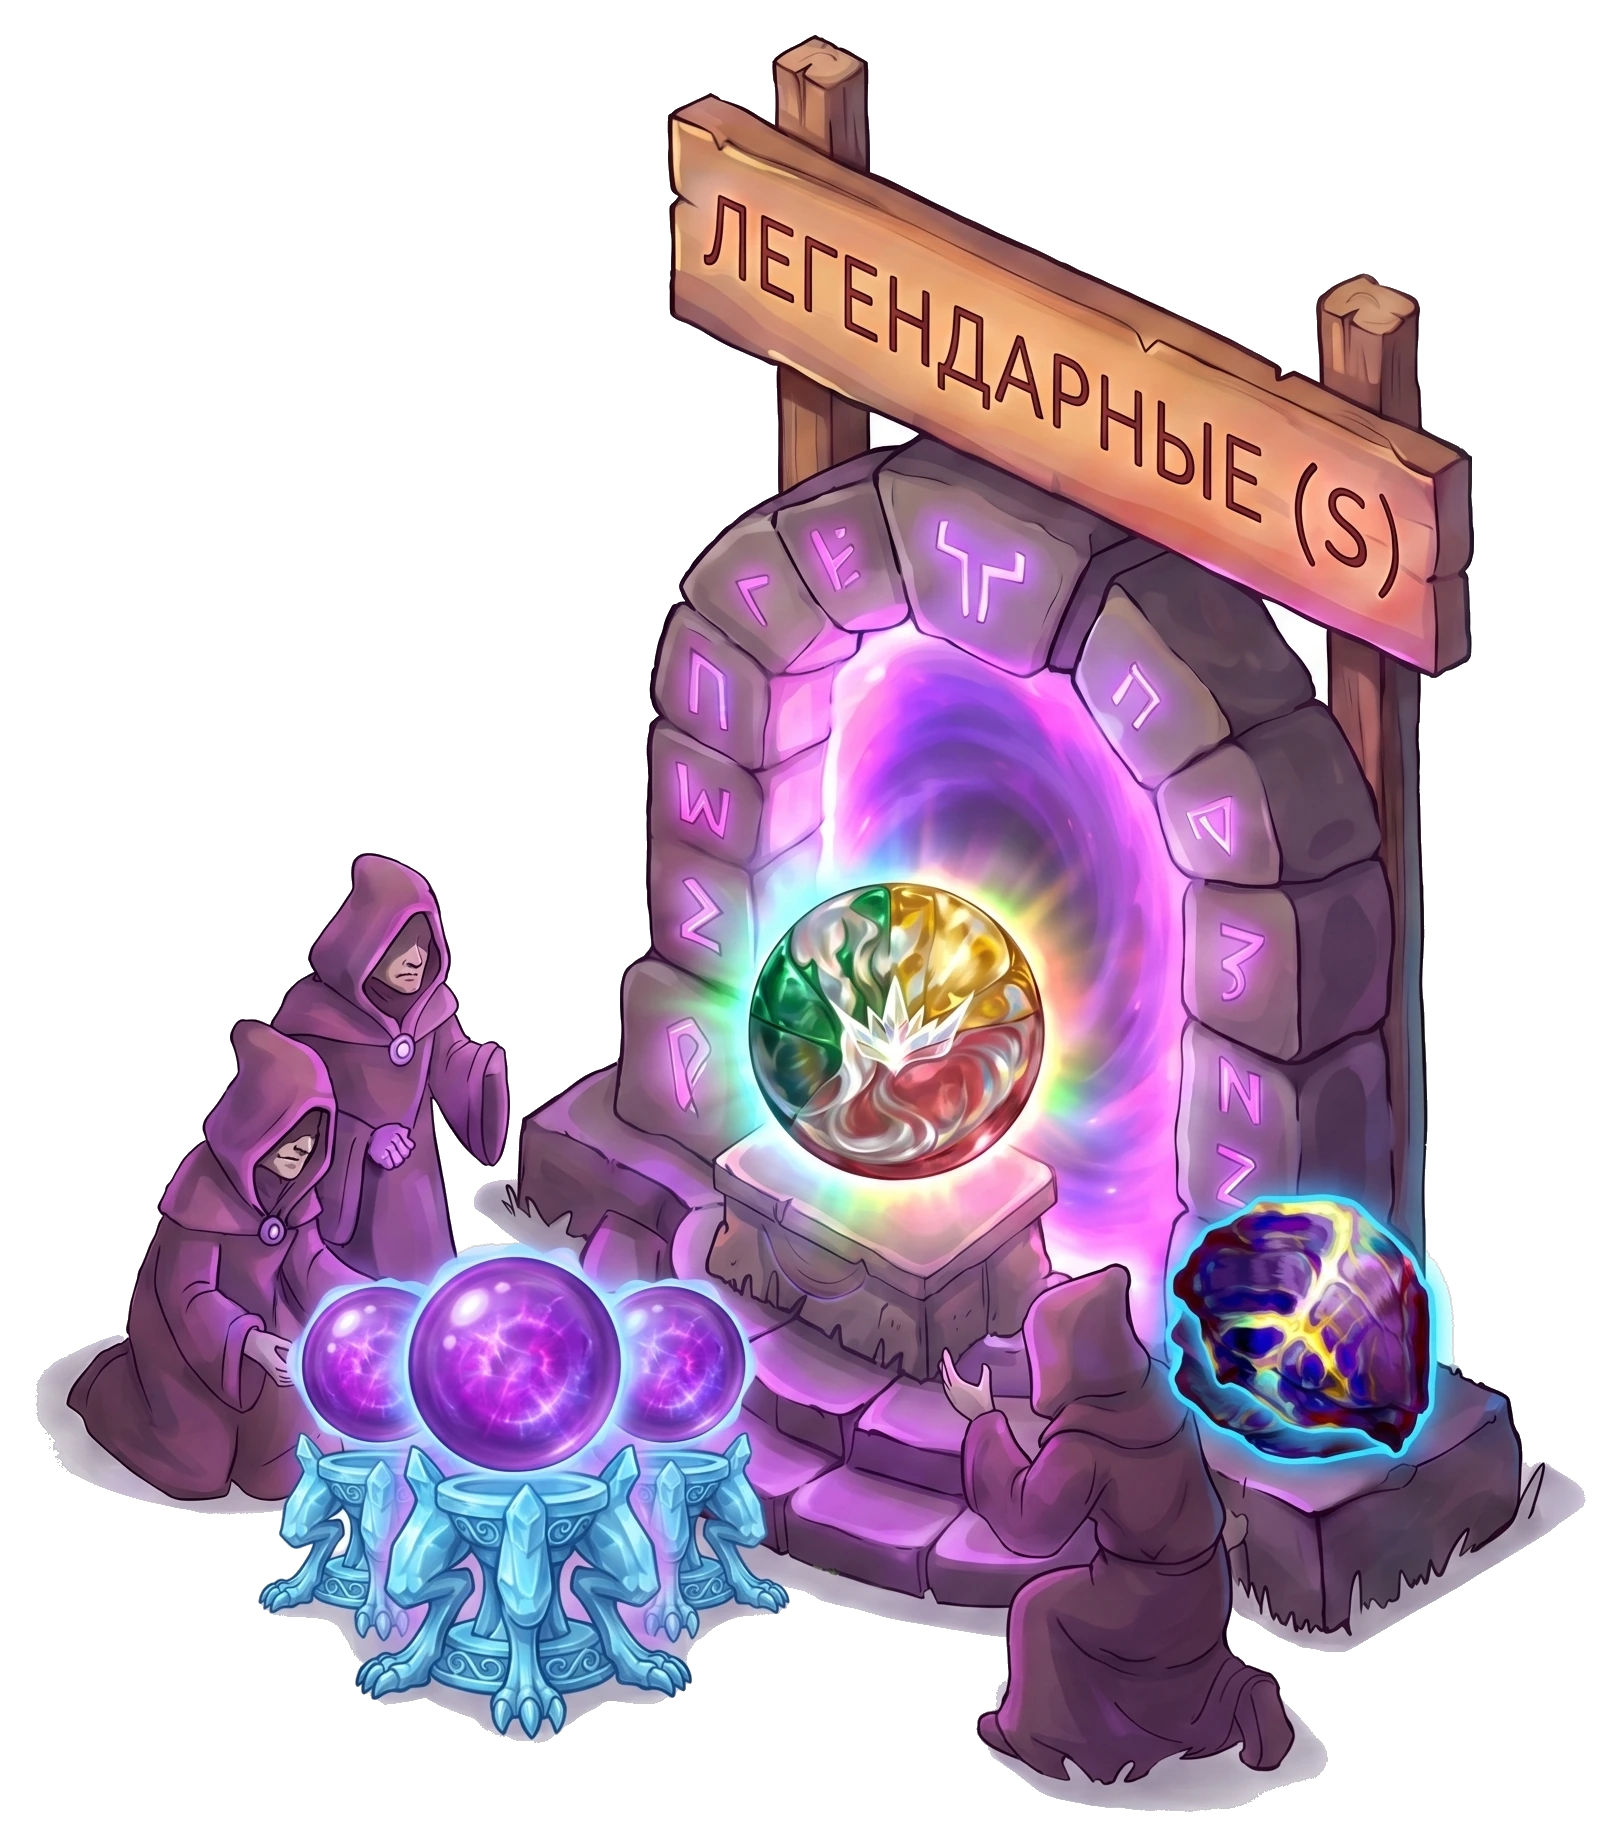
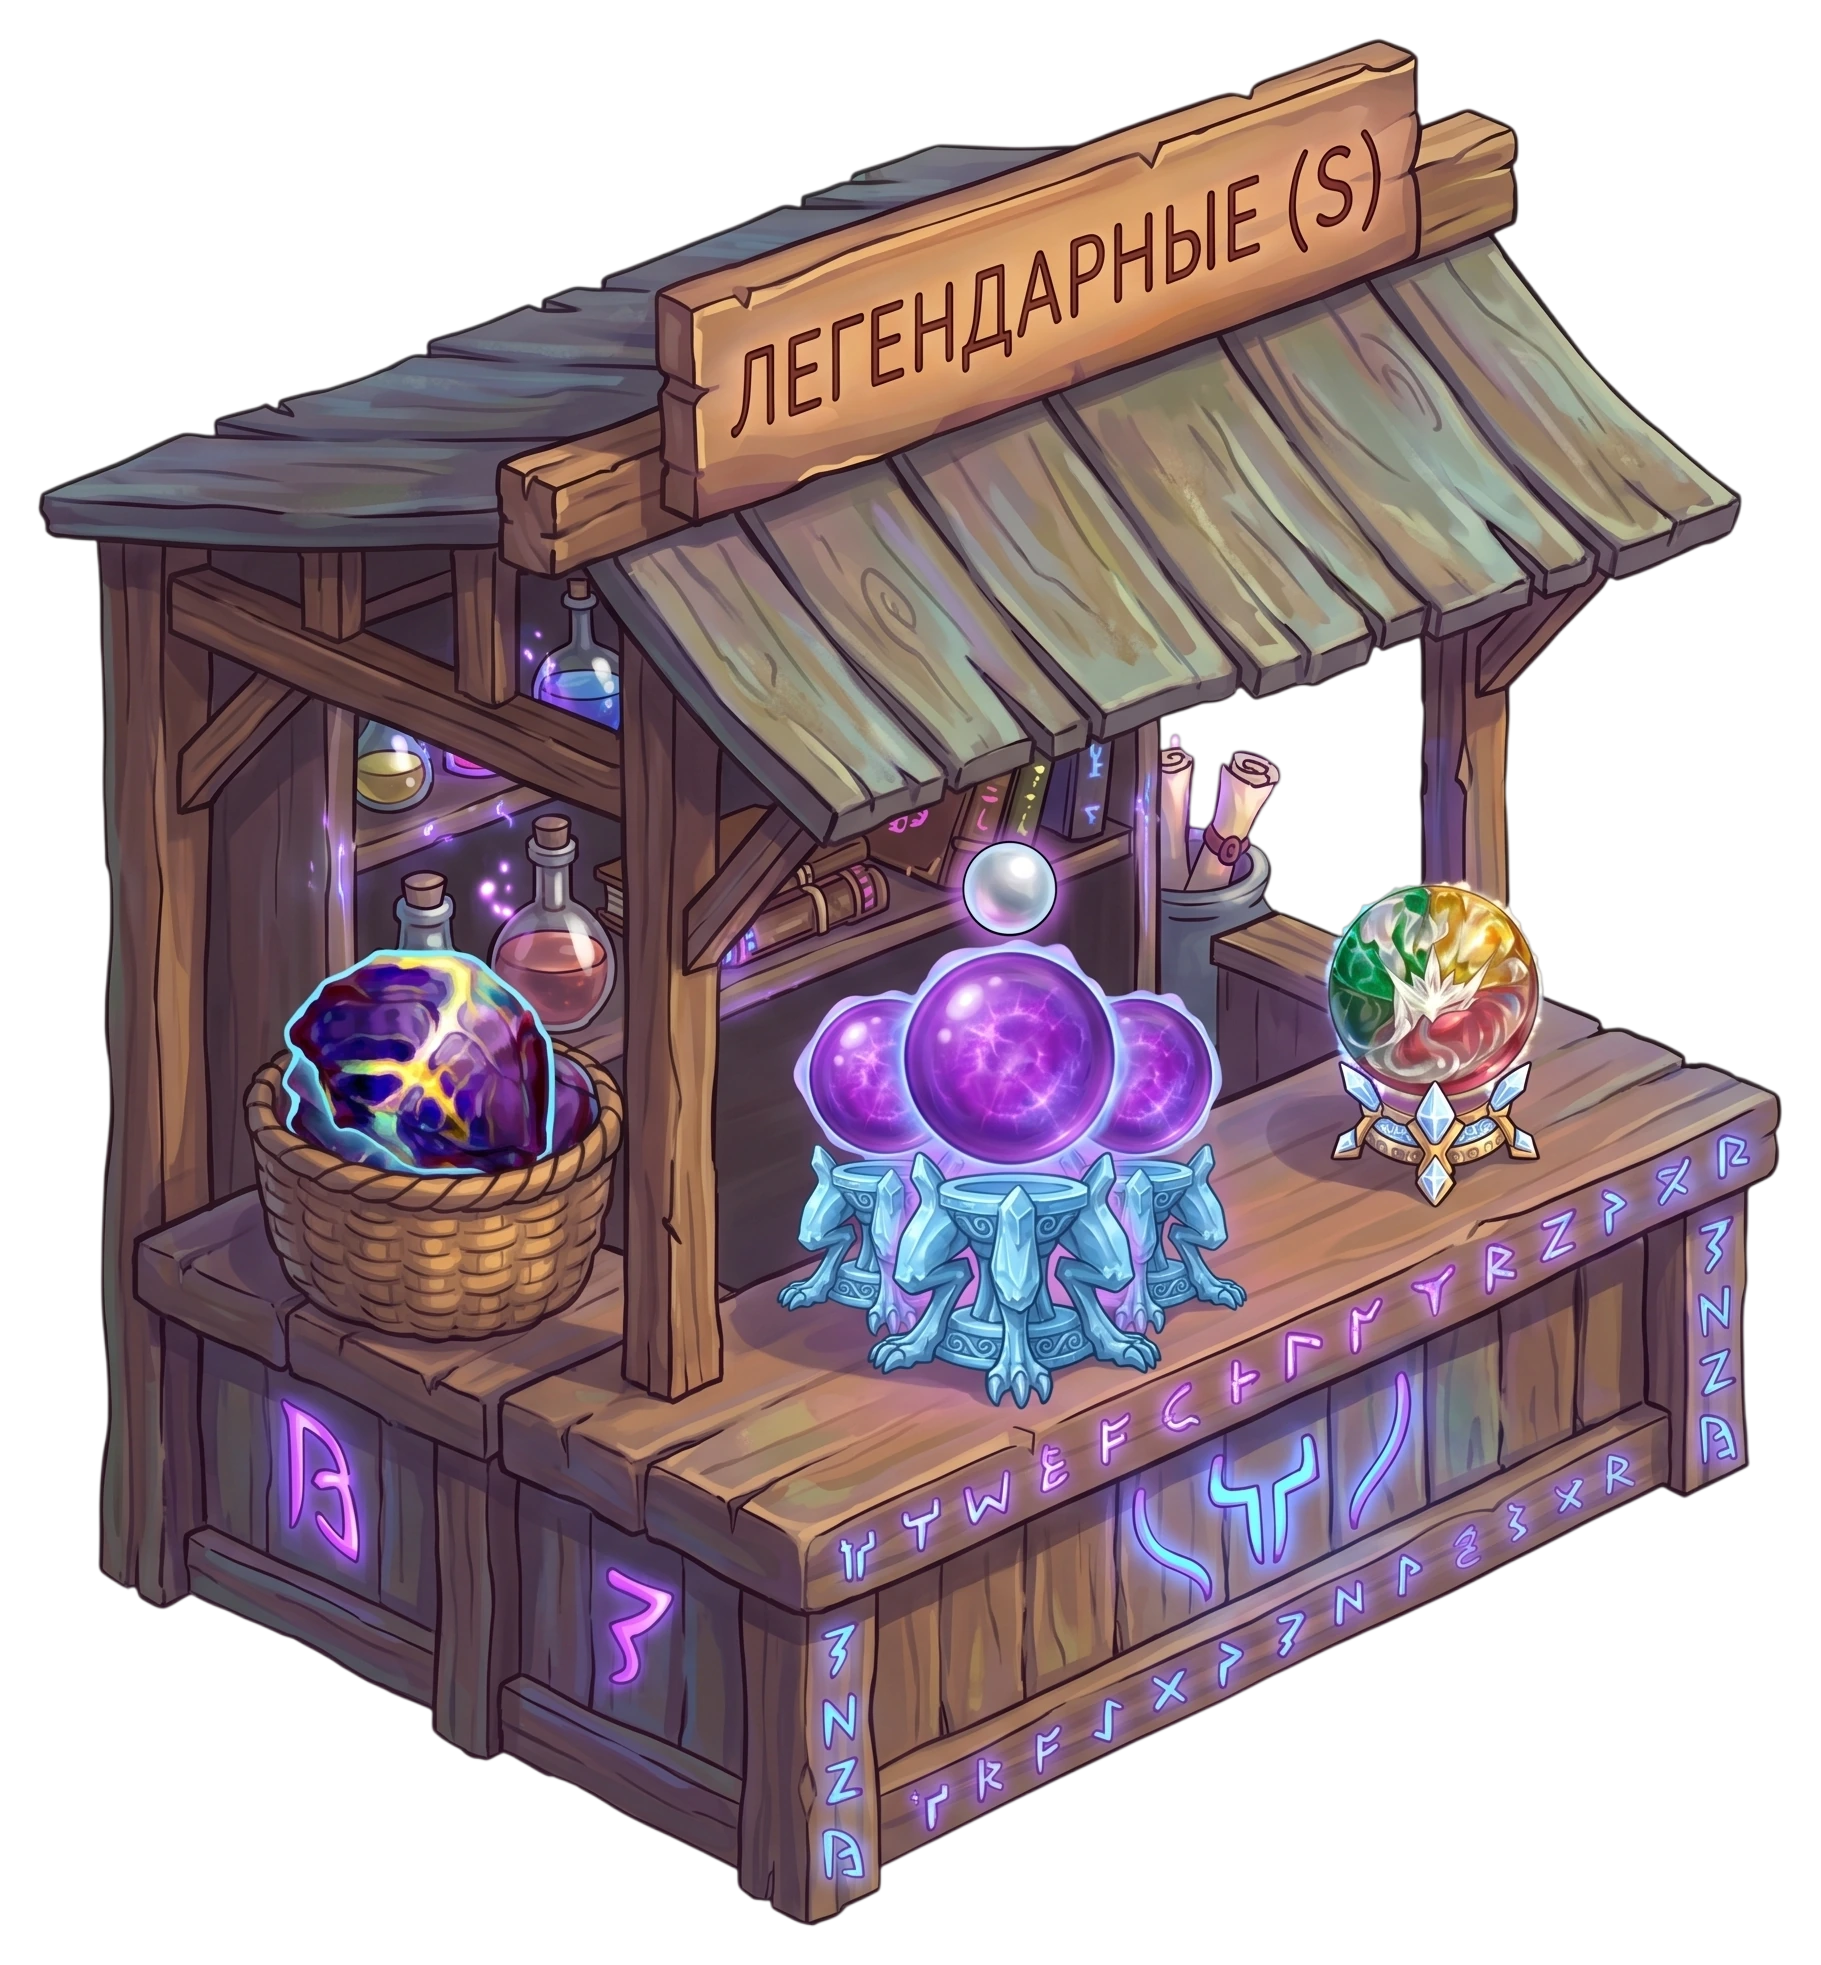
Очередь: новые модели лавок, зеркалирование объектов, слой очереди (перёд/зад)
- заменены 3 лавки новыми моделями (уже с прозрачным фоном, обрезка+webp), bump ?v=3
- правая админ-панель: кнопка зеркала ⇋ для лавок/счётчиков/цилиня/фонтана/кошелька/кнопок
  (flip:<ключ> в конфиге -> scaleX(-1) поверх базового transform)
- строки «Очередь · … (все люди)» — слой перёд/зад/авто для всей очереди целиком
  (обёртка .qs-qlayer с z-index; люди с предметами над головами уходят на передний/задний план)
- активная кнопка слоя и зеркала подсвечивается

diff --git a/frontend/js/queue-scene.js b/frontend/js/queue-scene.js
@@ -289,6 +289,10 @@
   }
   // размер конкретного объекта (по ключу размещения); откат — категорийный размер/1
   function objSize(pkey, base) { var v = parseFloat(CONFIG["size:" + pkey]); return (isFinite(v) && v > 0) ? v : (base || 1); }
+  // зеркалирование объекта по ключу
+  function isFlipped(pkey) { return CONFIG["flip:" + pkey] === "1"; }
+  // суффикс transform с учётом зеркала (base — базовый translate объекта)
+  function flipTf(pkey, base) { return base + (isFlipped(pkey) ? " scaleX(-1)" : ""); }
   // текущая позиция+слой объекта (сохранённые или дефолтные) — для админ-панели перемещения
   function curPlace(key, dx, dy) { var p = PLACEMENTS[key]; return { x: p ? p.x : dx, y: p ? p.y : dy, z: (p && p.z) || "" }; }
   function savePlacement(key, x, y, z) {
@@ -813,6 +817,8 @@
     ".qs-objp-szv{font:800 11px system-ui;color:#9fe0a0;min-width:34px;text-align:center}" +
     ".qs-objp-z{display:flex;gap:2px}" +
     ".qs-objp-z button{font-size:10px;min-width:0;padding:0 6px}" +
+    ".qs-objp button.on{background:linear-gradient(180deg,#f3d489,#d09b2e);color:#1b1006;border-color:#f3d489}" +
+    ".qs-objp-flip{font-size:13px}" +
     "@media(max-width:820px){.qs-objp{position:static;right:auto;top:auto;width:100%;max-height:none;margin:10px 0}}" +
     ".qs-join{display:block;margin:6px auto 0;cursor:pointer;font:700 12px system-ui;color:#1b1006;" +
       "border:0;border-radius:9px;padding:7px 12px;background:linear-gradient(180deg,#f3d489,#d09b2e);" +
@@ -840,6 +846,9 @@
     ".qs-fwallet{position:absolute;transform:translate(-50%,0);line-height:0;pointer-events:none;" +
       "filter:drop-shadow(0 4px 9px rgba(0,0,0,.55))}" +
     ".qs-frame.place-on .qs-fwallet{pointer-events:auto;cursor:move}" +
+    // слой всей очереди (front/back) — прозрачный, клики проходят к сцене, но люди кликабельны
+    ".qs-qlayer{position:absolute;inset:0;pointer-events:none}" +
+    ".qs-qlayer .qs-char{pointer-events:auto}" +
     ".qs-fw-bg{width:100%;height:auto;display:block}" +
     ".qs-fw-slot{position:absolute;left:30%;right:20%;top:33%;bottom:31%;display:flex;align-items:center;" +
       "justify-content:center;gap:1px;line-height:1}" +
@@ -1414,10 +1423,11 @@
       var lkpos = placedPos("lavka:" + b.q, b.merchant.x, b.merchant.y + 3);
       var lavka = document.createElement("img");
       lavka.className = "qs-lavka"; lavka.alt = ""; lavka.decoding = "async"; lavka.loading = "lazy";
-      lavka.src = "assets/queue/scene/lavka-" + b.q + ".webp?v=2";
+      lavka.src = "assets/queue/scene/lavka-" + b.q + ".webp?v=3";
       lavka.style.cssText = "left:" + lkpos.x.toFixed(2) + "%;top:" + lkpos.y.toFixed(2) +
         "%;height:calc(30% * " + objSize("lavka:" + b.q, getSize("lavka", 1)).toFixed(3) +
-        ");z-index:" + zOf("lavka:" + b.q, lkpos.y);
+        ");z-index:" + zOf("lavka:" + b.q, lkpos.y) +
+        ";transform:" + flipTf("lavka:" + b.q, "translate(-50%,-100%)");
       if (_placeMode) makeDraggable(lavka, "lavka:" + b.q);
       stage.appendChild(lavka);
       if (_isAdmin && _placeMode) stage.appendChild(admTag(lkpos, "Лавка · " + b.title));
@@ -1443,9 +1453,20 @@
       // Больше людей → меньше расстояние (очередь сжимается).
       var spread = getSize("spread", 1);            // 0.4–1: какую долю пути занимает очередь
       var shown = entries.length;                   // на сцене — все, кто в очереди
+      // слой всей очереди: front/back переносит ВСЕХ людей очереди (с предметами над головами)
+      // на передний/задний план; auto — обычная глубина по y (люди вперемешку с объектами).
+      var qz = CONFIG["qz:" + b.q] || "";
+      var charTarget = stage;
+      if (qz === "front" || qz === "back") {
+        var qlayer = document.createElement("div");
+        qlayer.className = "qs-qlayer";
+        qlayer.style.cssText = "z-index:" + (qz === "front" ? 9500 : 2);
+        stage.appendChild(qlayer);
+        charTarget = qlayer;
+      }
       entries.forEach(function (e, i) {
         var t = shown <= 1 ? 0.92 : 1 - (i / (shown - 1)) * spread;
-        stage.appendChild(renderChar(e, pathPoint(pth, t), meCanon, b.q, i));
+        charTarget.appendChild(renderChar(e, pathPoint(pth, t), meCanon, b.q, i));
       });
       // UI: кнопки «Список», «Встать/Выйти» и (когда стоишь) «✎ ресурс/кому».
       // Каждую можно перетащить (в режиме «Расставить предметы»); позиция сохраняется.
@@ -1499,7 +1520,8 @@
       var cntEl = document.createElement("div");
       cntEl.className = "qs-scnt qs-btn-abs";
       cntEl.style.cssText = "left:" + cp.x.toFixed(2) + "%;top:" + cp.y.toFixed(2) +
-        "%;width:" + (64 * csz).toFixed(1) + "px;z-index:" + cnz;
+        "%;width:" + (64 * csz).toFixed(1) + "px;z-index:" + cnz +
+        ";transform:" + flipTf("cnt:" + b.q, "translate(-50%,-50%)");
       cntEl.title = entries.length + " чел в очереди «" + b.title + "»";
       cntEl.innerHTML = '<img class="qs-scnt-bg" src="assets/queue/ui/counter2.webp?v=2" alt="">' +
         '<b class="qs-scnt-n" style="font-size:' + (19 * csz).toFixed(1) + 'px">' + entries.length + "</b>";
@@ -1535,7 +1557,8 @@
     mount.src = "assets/queue/scene/item/mount-cilin.webp";
     mount.style.cssText = "left:" + mpos.x.toFixed(2) + "%;top:" + mpos.y.toFixed(2) +
       "%;height:calc(22% * " + objSize("mount", getSize("mount", 1)).toFixed(3) +
-      ");z-index:" + zOf("mount", mpos.y);
+      ");z-index:" + zOf("mount", mpos.y) +
+      ";transform:" + flipTf("mount", "translate(-50%,-100%)");
     if (_placeMode) makeDraggable(mount, "mount");
     stage.appendChild(mount);
     if (_isAdmin && _placeMode) stage.appendChild(admTag(mpos, "Огненный цилинь"));
@@ -1549,7 +1572,8 @@
     fountain.src = "assets/queue/scene/fountain-" + (isNight() ? "night" : "day") + ".webp?v=1";
     fountain.style.cssText = "left:" + fpos.x.toFixed(2) + "%;top:" + fpos.y.toFixed(2) +
       "%;height:calc(24% * " + objSize("fountain", getSize("fountain", 1)).toFixed(3) +
-      ");z-index:" + zOf("fountain", fpos.y);
+      ");z-index:" + zOf("fountain", fpos.y) +
+      ";transform:" + flipTf("fountain", "translate(-50%,-100%)");
     if (_placeMode) makeDraggable(fountain, "fountain");
     stage.appendChild(fountain);
     if (_isAdmin && _placeMode) stage.appendChild(admTag(fpos, "Фонтан (день/ночь)"));
@@ -1566,7 +1590,8 @@
       frameWallet.className = "qs-fwallet";
       frameWallet.dataset.fixedz = "1";   // всегда поверх рамки, даже при перетаскивании
       frameWallet.style.cssText = "left:" + wpos.x.toFixed(2) + "%;top:" + wpos.y.toFixed(2) +
-        "%;width:calc(15% * " + objSize("wallet", 1).toFixed(3) + ");z-index:100000";
+        "%;width:calc(15% * " + objSize("wallet", 1).toFixed(3) + ");z-index:100000" +
+        ";transform:" + flipTf("wallet", "translate(-50%,0)");
       frameWallet.title = "Твои жетоны ТОП-3: " + wn;
       frameWallet.innerHTML = '<img class="qs-fw-bg" src="assets/queue/ui/wallet2.webp?v=1" alt="">' +
         '<div class="qs-fw-slot">' + (wn > 0
@@ -1951,14 +1976,16 @@
   //    Видна ТОЛЬКО админу.
   function sceneObjPanel() {
     var objs = [];
-    BOOTHS.forEach(function (b) { objs.push({ key: "lavka:" + b.q, name: "Лавка · " + b.title, dx: b.merchant.x, dy: b.merchant.y + 3, sz: true, base: getSize("lavka", 1) }); });
+    // очереди целиком (все люди с предметами над головами) — только слой перёд/зад/авто
+    BOOTHS.forEach(function (b) { objs.push({ queue: b.q, name: "Очередь · " + b.title + " (все люди)" }); });
+    BOOTHS.forEach(function (b) { objs.push({ key: "lavka:" + b.q, name: "Лавка · " + b.title, dx: b.merchant.x, dy: b.merchant.y + 3, sz: true, base: getSize("lavka", 1), flip: true }); });
     var cnDef = [{ x: 44, y: 44 }, { x: 50, y: 50 }, { x: 56, y: 56 }];
-    BOOTHS.forEach(function (b) { objs.push({ key: "cnt:" + b.q, name: "Счётчик · " + b.title, dx: cnDef[b.q].x, dy: cnDef[b.q].y, sz: true, base: 1 }); });
-    objs.push({ key: "mount", name: "Огненный цилинь", dx: 85, dy: 70, sz: true, base: getSize("mount", 1) });
-    objs.push({ key: "fountain", name: "Фонтан (день/ночь)", dx: 50, dy: 62, sz: true, base: getSize("fountain", 1) });
-    objs.push({ key: "wallet", name: "Кошелёк жетонов", dx: 17, dy: 17, sz: true, base: 1 });
-    BOOTHS.forEach(function (b) { var p0 = getPath(b.q)[0] || { x: 45, y: 60 }; objs.push({ key: "btn-join:" + b.q, name: "Встать/Выйти · " + b.title, dx: p0.x - 6, dy: p0.y + 3, sz: false }); });
-    BOOTHS.forEach(function (b) { objs.push({ key: "btn-list:" + b.q, name: "Список · " + b.title, dx: b.ui.x, dy: b.ui.y - 3, sz: false }); });
+    BOOTHS.forEach(function (b) { objs.push({ key: "cnt:" + b.q, name: "Счётчик · " + b.title, dx: cnDef[b.q].x, dy: cnDef[b.q].y, sz: true, base: 1, flip: true }); });
+    objs.push({ key: "mount", name: "Огненный цилинь", dx: 85, dy: 70, sz: true, base: getSize("mount", 1), flip: true });
+    objs.push({ key: "fountain", name: "Фонтан (день/ночь)", dx: 50, dy: 62, sz: true, base: getSize("fountain", 1), flip: true });
+    objs.push({ key: "wallet", name: "Кошелёк жетонов", dx: 17, dy: 17, sz: true, base: 1, flip: true });
+    BOOTHS.forEach(function (b) { var p0 = getPath(b.q)[0] || { x: 45, y: 60 }; objs.push({ key: "btn-join:" + b.q, name: "Встать/Выйти · " + b.title, dx: p0.x - 6, dy: p0.y + 3, sz: false, flip: true }); });
+    BOOTHS.forEach(function (b) { objs.push({ key: "btn-list:" + b.q, name: "Список · " + b.title, dx: b.ui.x, dy: b.ui.y - 3, sz: false, flip: true }); });
 
     var panel = document.createElement("div");
     panel.className = "qs-objp" + (_scnPanelOpen ? "" : " closed");
@@ -1979,10 +2006,37 @@
     bodyEl.appendChild(pm);
 
     var MStep = 1.5, SStep = 0.1;
+    // подсветка активной кнопки слоя: on-класс, если текущий слой совпадает
+    function zBtns(curZ) {
+      return '<span class="qs-objp-z">' +
+        '<button data-a="front" class="' + (curZ === "front" ? "on" : "") + '" title="на передний план">перёд</button>' +
+        '<button data-a="back" class="' + (curZ === "back" ? "on" : "") + '" title="на задний план">зад</button>' +
+        '<button data-a="auto" class="' + (!curZ ? "on" : "") + '" title="авто по глубине">авто</button>' +
+      "</span>";
+    }
     objs.forEach(function (o) {
       var row = document.createElement("div");
       row.className = "qs-objp-row";
+      // ── строка ОЧЕРЕДИ: только слой (перёд/зад/авто) для всех людей очереди ──
+      if (o.queue !== undefined) {
+        var qz = CONFIG["qz:" + o.queue] || "";
+        row.innerHTML = '<div class="qs-objp-nm">👥 ' + esc(o.name) + "</div>" +
+          '<div class="qs-objp-ctl">' + zBtns(qz) + "</div>";
+        row.addEventListener("click", function (e) {
+          var btn = e.target.closest("button"); if (!btn) return;
+          var a = btn.dataset.a;
+          if (a === "front") saveCfg("qz:" + o.queue, "front");
+          else if (a === "back") saveCfg("qz:" + o.queue, "back");
+          else if (a === "auto") saveCfg("qz:" + o.queue, "");
+          else return;
+          render(_lastState);
+        });
+        bodyEl.appendChild(row);
+        return;
+      }
+      // ── строка ОБЪЕКТА: перемещение + размер + зеркало + слой ──
       var szTxt = o.sz ? objSize(o.key, o.base).toFixed(2) + "×" : "";
+      var curZ = (PLACEMENTS[o.key] && PLACEMENTS[o.key].z) || "";
       row.innerHTML =
         '<div class="qs-objp-nm">' + esc(o.name) + "</div>" +
         '<div class="qs-objp-ctl">' +
@@ -1995,11 +2049,8 @@
           "</span>" +
           (o.sz ? '<span class="qs-objp-sz"><button data-a="sz-" title="меньше">−</button>' +
             '<b class="qs-objp-szv">' + szTxt + '</b><button data-a="sz+" title="больше">+</button></span>' : "") +
-          '<span class="qs-objp-z">' +
-            '<button data-a="front" title="на передний план">перёд</button>' +
-            '<button data-a="back" title="на задний план">зад</button>' +
-            '<button data-a="auto" title="авто по глубине">авто</button>' +
-          "</span>" +
+          (o.flip ? '<button data-a="flip" class="qs-objp-flip' + (isFlipped(o.key) ? " on" : "") + '" title="зеркалить">⇋</button>' : "") +
+          zBtns(curZ) +
         "</div>";
       row.addEventListener("click", function (e) {
         var btn = e.target.closest("button"); if (!btn) return;
@@ -2014,6 +2065,7 @@
         else if (a === "auto") savePlacement(o.key, p.x, p.y, "");
         else if (a === "sz+") saveCfg("size:" + o.key, Math.min(3, objSize(o.key, o.base) + SStep).toFixed(2));
         else if (a === "sz-") saveCfg("size:" + o.key, Math.max(0.3, objSize(o.key, o.base) - SStep).toFixed(2));
+        else if (a === "flip") saveCfg("flip:" + o.key, isFlipped(o.key) ? "0" : "1");
         else return;
         render(_lastState);
       });

diff --git a/frontend/queue.html b/frontend/queue.html
@@ -239,6 +239,6 @@
   <script src="js/view-as.js?v=1815100000"></script>
   <script src="js/queue-open.js?v=1859500000"></script>
   <script src="js/queue.js?v=1817300000"></script>
-  <script src="js/queue-scene.js?v=1860000000"></script>
+  <script src="js/queue-scene.js?v=1861000000"></script>
 </body>
 </html>